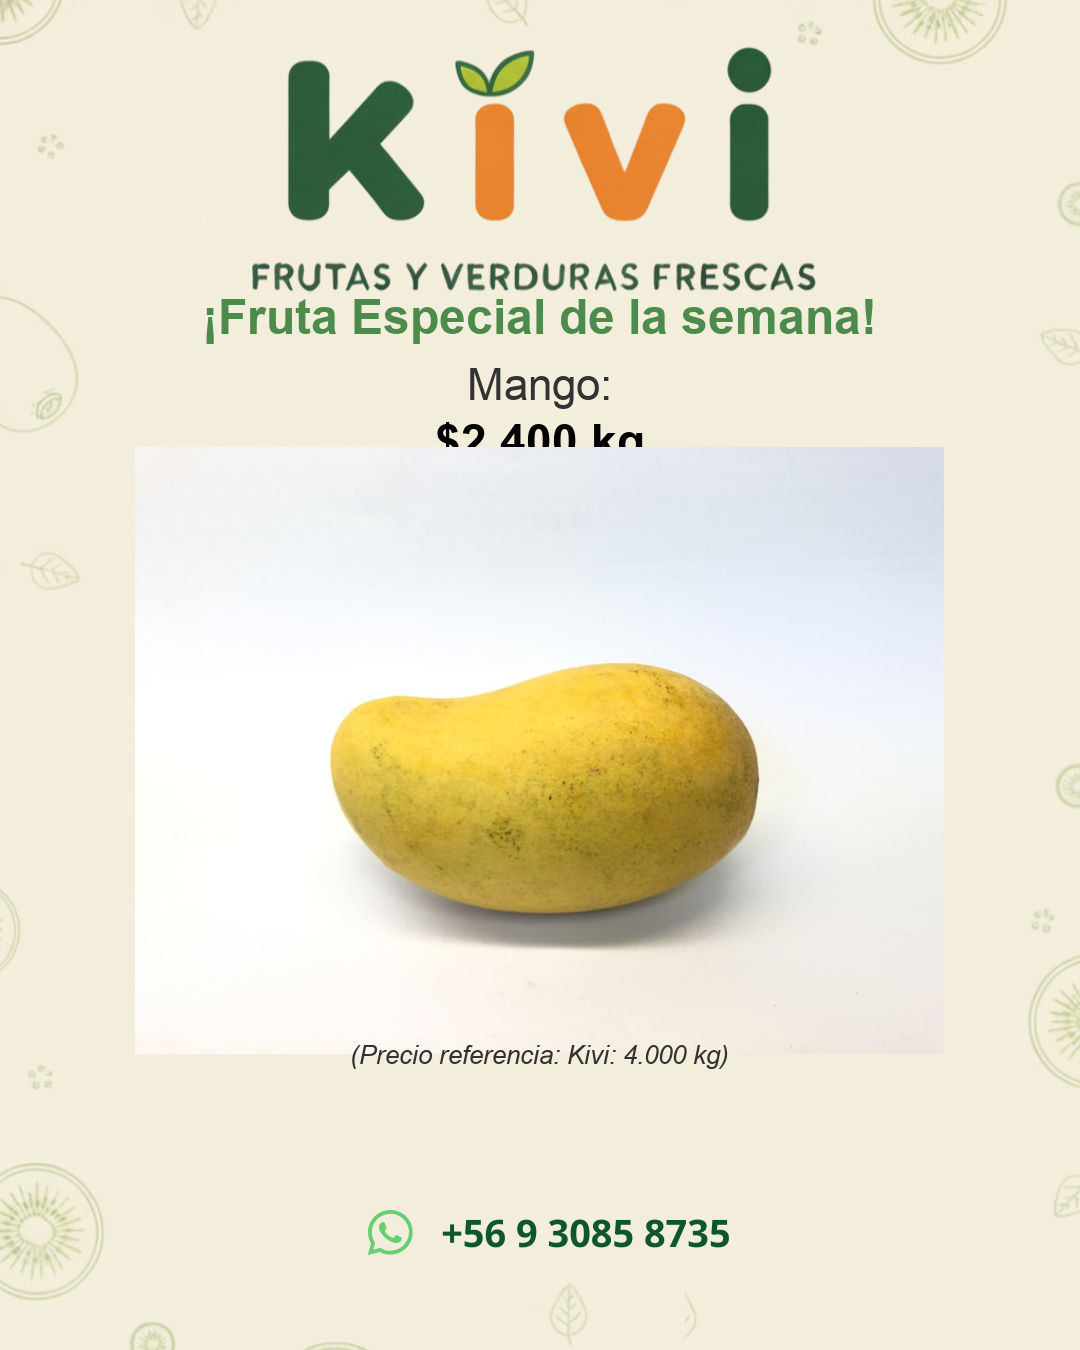
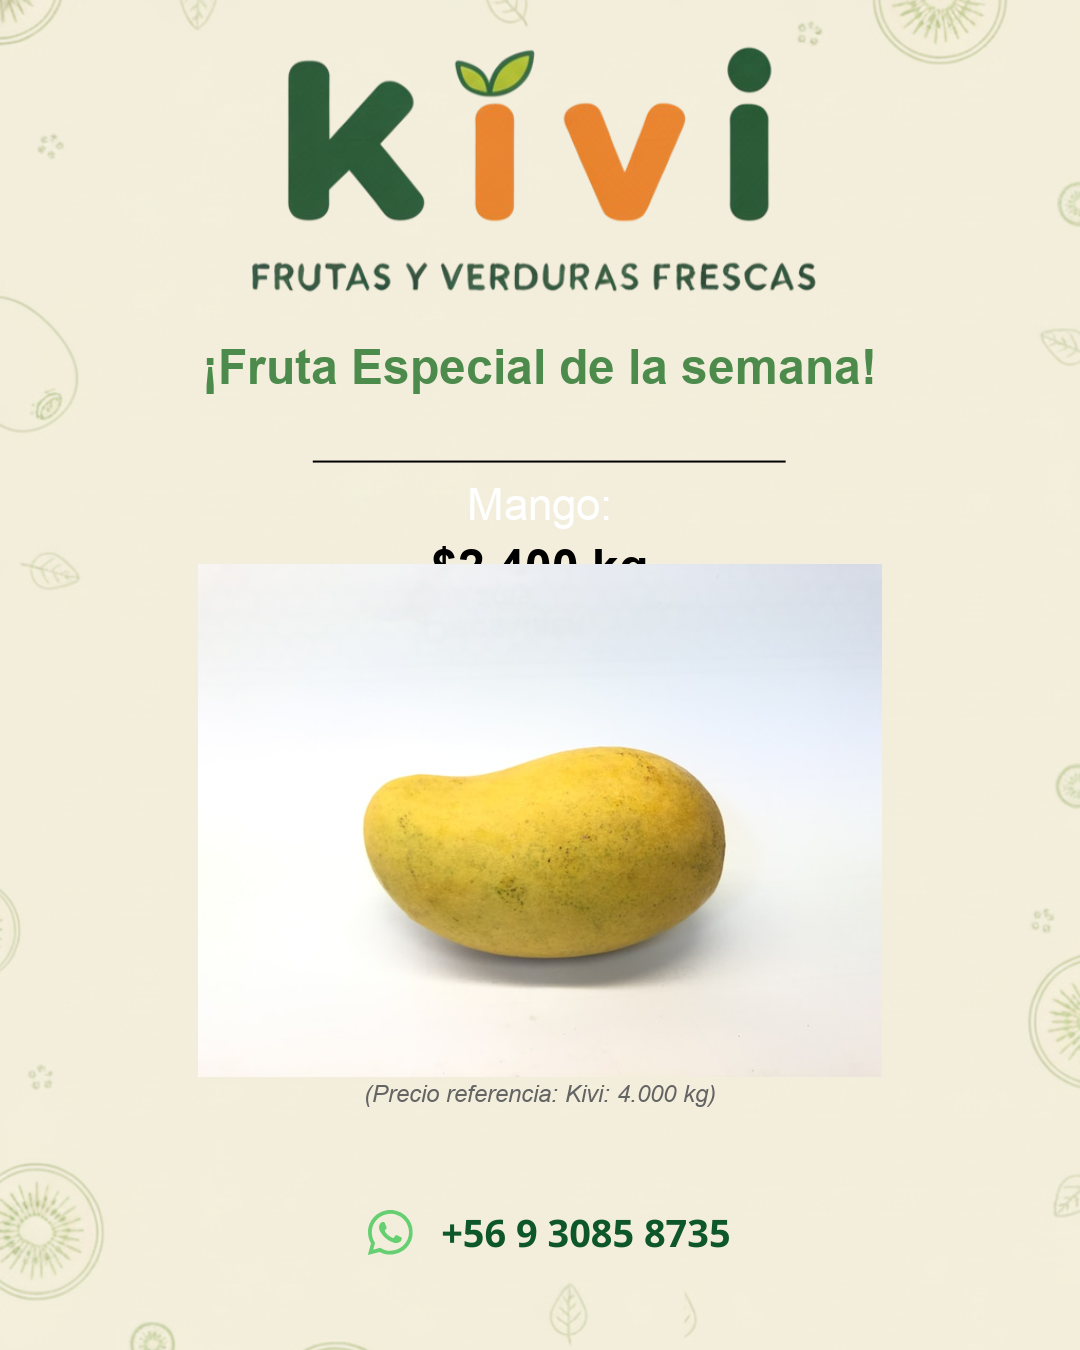
Automatizaciones 15

diff --git a/app/social/utils/image_processor.py b/app/social/utils/image_processor.py
@@ -18,12 +18,30 @@ def get_template_path() -> str:
 def download_image(url: str) -> Optional[Image.Image]:
     """Descarga una imagen desde una URL"""
     try:
-        response = requests.get(url, timeout=10)
+        print(f"  Intentando descargar imagen de: {url}")
+        
+        # Headers para simular un navegador
+        headers = {
+            'User-Agent': 'Mozilla/5.0 (Windows NT 10.0; Win64; x64) AppleWebKit/537.36'
+        }
+        
+        response = requests.get(url, timeout=15, headers=headers, allow_redirects=True)
         response.raise_for_status()
+        
+        print(f"  ✓ Respuesta HTTP: {response.status_code}")
+        print(f"  ✓ Tamaño: {len(response.content)} bytes")
+        
         img = Image.open(BytesIO(response.content))
+        print(f"  ✓ Imagen cargada: {img.format} {img.size} {img.mode}")
+        
         return img.convert('RGBA')
+    except requests.exceptions.RequestException as e:
+        print(f"  ❌ Error de red descargando imagen: {e}")
+        print(f"     URL: {url}")
+        return None
     except Exception as e:
-        print(f"Error descargando imagen desde {url}: {e}")
+        print(f"  ❌ Error procesando imagen: {e}")
+        print(f"     URL: {url}")
         return None
 
 
@@ -124,10 +142,11 @@ def generate_offer_image(
             italic=positions['reference_price'].get('italic', False)
         )
         
-        # Colores basados en el ejemplo de la naranja
-        text_color = (50, 50, 50)  # Gris oscuro para texto normal
+        # Colores según especificación del usuario
+        white_color = (255, 255, 255)  # Blanco para nombre del producto
         dark_green = (76, 139, 76)  # Verde oscuro para título
-        price_color = (0, 0, 0)  # Negro para el precio
+        black_color = (0, 0, 0)  # Negro para el precio (negrita)
+        gray_color = (100, 100, 100)  # Gris para precio referencia
         
         # Obtener posiciones en píxeles directamente
         title_y = int(positions['title']['y'])
@@ -145,18 +164,18 @@ def generate_offer_image(
             draw.text((x_position, y_position), text, fill=color, font=font)
             print(f"  Dibujando '{text}' en posición ({x_position}, {y_position})")
         
-        # Dibujar título
+        # Dibujar título (arriba de la línea separadora)
         print(f"Dibujando título: {title}")
         center_text(title, title_font, title_y, dark_green)
         
-        # Dibujar nombre del producto con dos puntos (como en el ejemplo)
+        # Dibujar nombre del producto en BLANCO (abajo de la línea separadora)
         product_text = f"{product_name}:"
         print(f"Dibujando nombre producto: {product_text}")
-        center_text(product_text, product_font, product_y, text_color)
+        center_text(product_text, product_font, product_y, white_color)
         
-        # Dibujar precio
+        # Dibujar precio en NEGRO y NEGRITA
         print(f"Dibujando precio: {price}")
-        center_text(price, price_font, price_y, price_color)
+        center_text(price, price_font, price_y, black_color)
         
         # Descargar y colocar imagen del producto
         print(f"Descargando imagen del producto desde: {product_image_url}")
@@ -206,11 +225,11 @@ def generate_offer_image(
             print(f"   La imagen NO se incluirá en el resultado final")
             # No retornar None - continuar con el resto de la generación
         
-        # Dibujar precio de referencia en cursiva
+        # Dibujar precio de referencia en cursiva y gris
         if reference_price:
             ref_text = f"(Precio referencia: {reference_price})"
             print(f"Dibujando precio de referencia: {ref_text}")
-            center_text(ref_text, ref_price_font, ref_price_y, text_color)
+            center_text(ref_text, ref_price_font, ref_price_y, gray_color)
         
         # Guardar imagen
         if not output_path:

diff --git a/app/social/utils/image_positions.py b/app/social/utils/image_positions.py
@@ -5,38 +5,41 @@ import json
 import os
 
 # Posiciones basadas en plantilla de 1080x1350 píxeles
-# Basado en el ejemplo correcto de Naranja proporcionado por el usuario
+# Ajustadas según feedback: título arriba de línea, nombre y precio abajo
 DEFAULT_POSITIONS = {
     "title": {
         "x": "center",
-        "y": 290,  # Justo debajo de la línea horizontal
+        "y": 340,  # ARRIBA de la línea separadora (línea está en ~420px)
         "font_size": 48,
         "bold": True
     },
     "product_name": {
         "x": "center",
-        "y": 360,  # Debajo del título
+        "y": 480,  # ABAJO de la línea separadora
         "font_size": 44,
-        "bold": False
+        "bold": False,
+        "color": "white"  # Nombre en blanco
     },
     "price": {
         "x": "center",
-        "y": 415,  # Justo después del nombre del producto
-        "font_size": 46,
-        "bold": True
+        "y": 540,  # Justo después del nombre del producto
+        "font_size": 48,
+        "bold": True,
+        "color": "black"  # Precio en negro y negrita
     },
     "product_image": {
         "x": "center",
-        "y": 750,  # Centro de la imagen (mucho más grande)
-        "max_width": 0.75,  # 75% del ancho de la plantilla
-        "max_height": 0.45  # 45% de la altura - imagen más grande
+        "y": 820,  # Centro de la imagen - más abajo para dar espacio
+        "max_width": 0.70,  # 70% del ancho de la plantilla
+        "max_height": 0.38  # 38% de la altura
     },
     "reference_price": {
         "x": "center",
-        "y": 1040,  # Abajo, antes del contacto de WhatsApp
-        "font_size": 26,
+        "y": 1080,  # Más abajo, antes del contacto de WhatsApp
+        "font_size": 24,
         "bold": False,
-        "italic": True
+        "italic": True,
+        "color": "gray"
     }
 }
 
